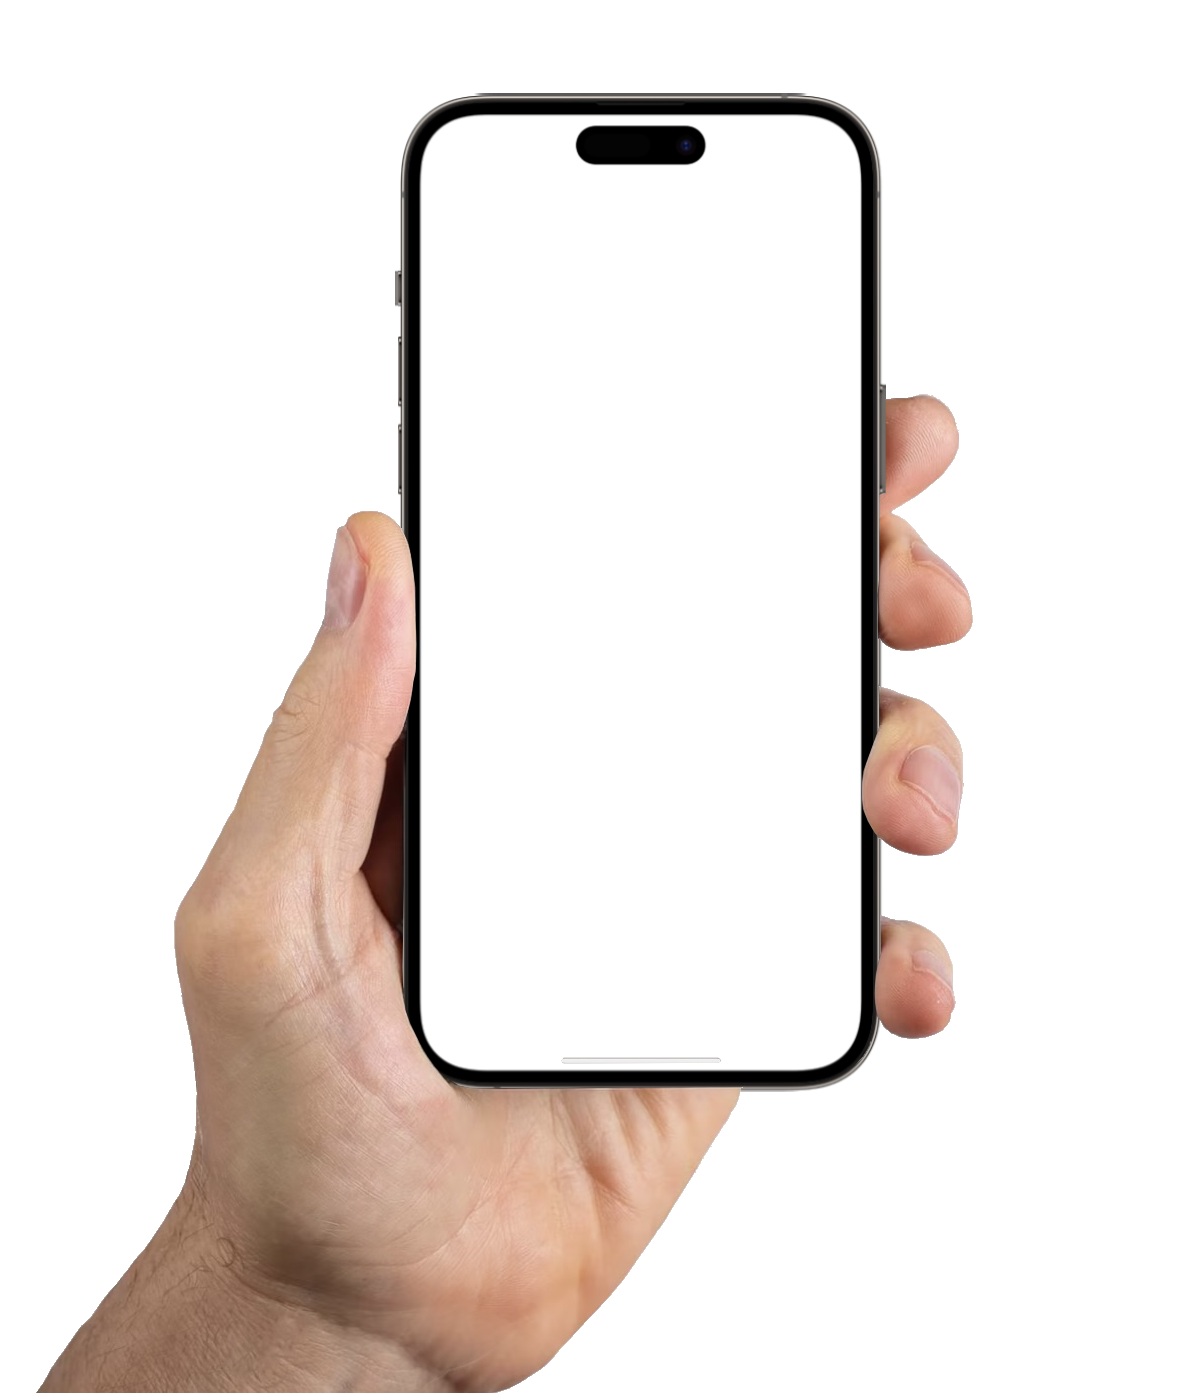
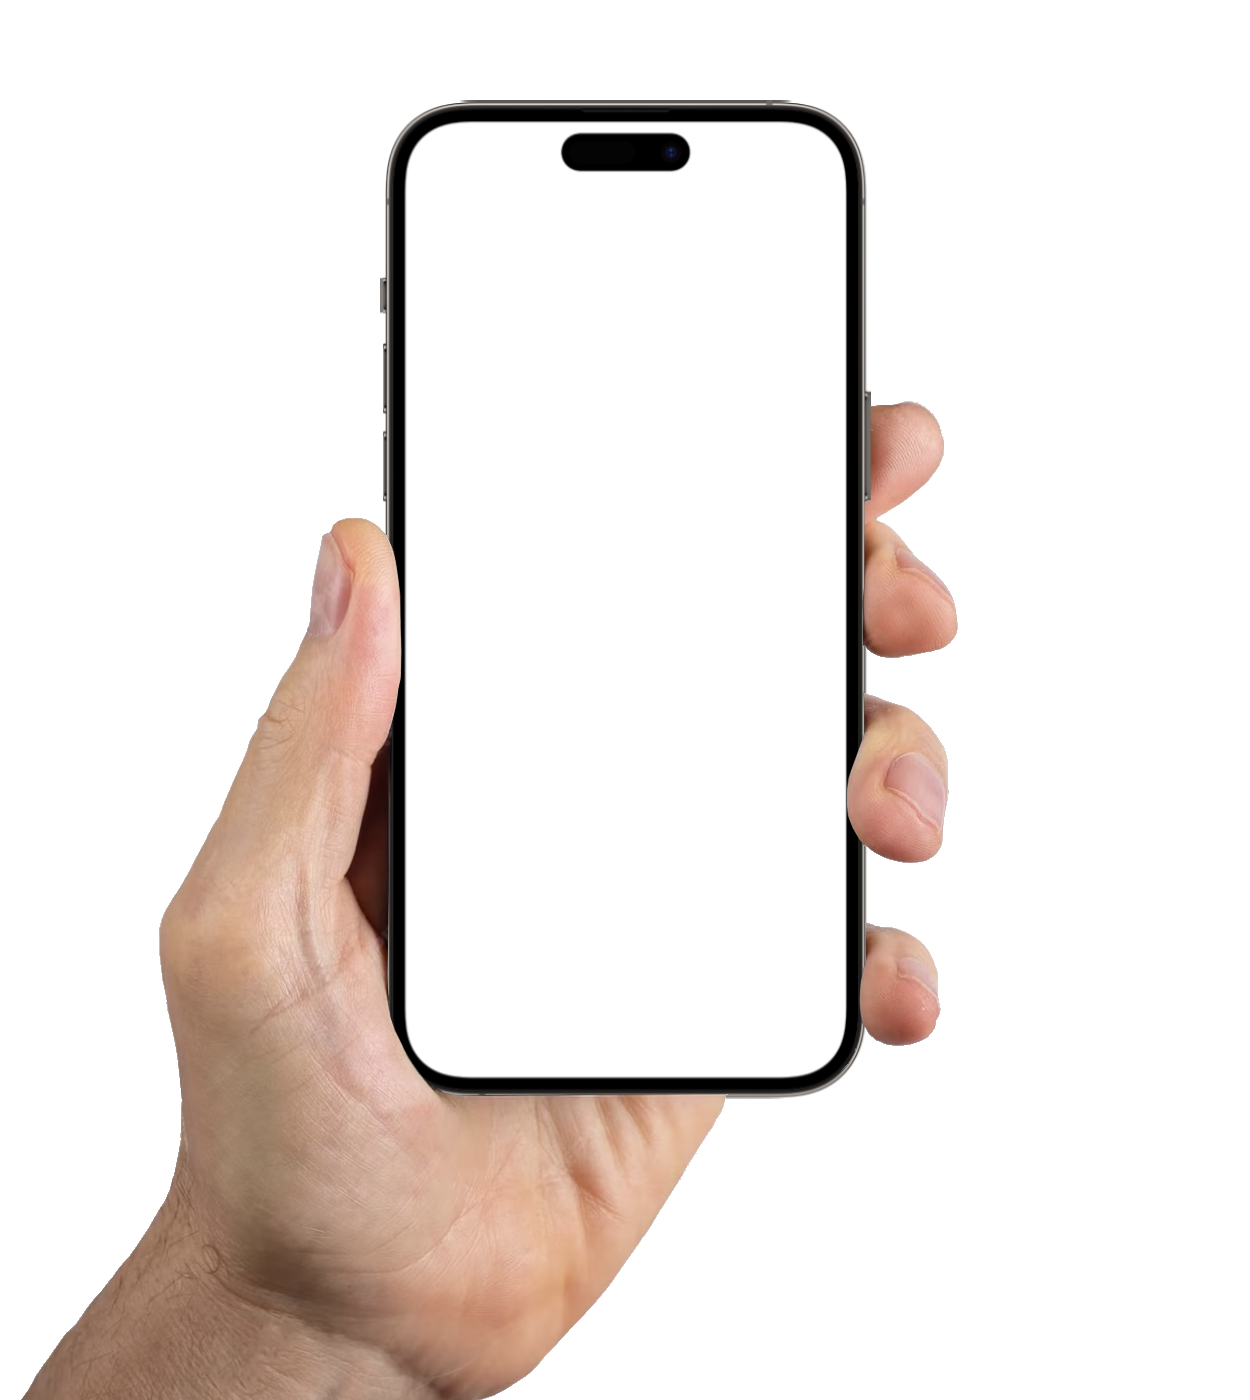
update d13

Changed region(s): [[0.0, 0.0614, 0.8325, 1.0], [0.0617, 0.9214, 0.0925, 0.9521]]

diff --git a/Desafios/d013/style.css b/Desafios/d013/style.css
@@ -7,45 +7,68 @@
 }
 
 html, body {
-    width: 98vw;
-    height: 98vh;
+    width: 100vw;
+    height: 100vh;
+    background-color: #594933;
 }
 
 body {
-    display: block;
-    background: #594933 url(imagens/fundo-madeira.jpg) top center no-repeat;
+    background: url(imagens/fundo-madeira.jpg) top center no-repeat;
     background-size: cover;
     background-attachment: fixed;
 }
 
 main {
-    height: 100vh;
     position: relative;
+    height: 100vh;
+}
+
+section#iphone {
+    position: absolute; 
+    top: 50%;
+    left: 50%;
+    transform: translate(-50%, -50%);
+
+    width: 100vw;
+    height: 100vh;
+    background: url(imagens/iPhone.png) top center no-repeat fixed;
+    background-size: 865px;
+}
+
+#notch {
+    background-size: 90px;
+    width: 90px;
+    display: block;
+    margin: auto;
+    transform: translate(-0%, -1850%);
+}
+
+#bar {
+    background-color: rgb(210, 210, 210);
+    width: 130px;
+    height: 5px;
+    margin: auto;
+    border-radius: 20px;
+    transform: translate(-0%, 14700%);
 }
 
 #home {
-    position: absolute;
-    top: 52%;
-    left: 48.4%;
-    transform: translate(-41%,-61.1%);
-    width: 305px;
-    height: 659px;
-    border-radius: 20px;
-    z-index: 1;
-    background-color: black;
+    position: relative;
+    top: 8.7%;
+    display: block;
+    border-radius: 41px;
+    margin: auto;
+    width: 307px;
+    height: 663px;
 }
 
 #redes {
-    display: block;
     background-color: rgba(169, 169, 169, 0.739);
     width: 320px;
     height: 80px;
     border-radius: 30px;
     margin: auto;
-    position: absolute;
-    top: 85%;
-    left: 51.5%;
-    transform: translate(-50%, -50%);
+    transform: translate(0%, 950%);   
 }
 
 #redes img {
@@ -68,17 +91,4 @@ main {
     margin: 0px 5px 0px 10px;
     box-shadow: 0px 0px 10px rgba(0, 0, 0, 0.68);
     transition: .1s;
-}
-
-#iphone {
-    background: url(imagens/iPhone.png) center center no-repeat fixed;
-    background-size: 825px;
-    width: 100vw;
-    height: 96.1vh;
-    position: absolute;
-    top: 52%;
-    left: 48.4%;
-    transform: translate(-50%, -50%);
-    margin: auto;
-    z-index: 2;
 }

diff --git a/Desafios/d013/index.html b/Desafios/d013/index.html
@@ -8,22 +8,24 @@
 </head>
 <body>
     <main>
-        <iframe id="home" name="app" src="home.html" frameborder="0" height="659" width="305">
-            Infelizmente o seu navegador não é compativel com a função deste website.
-        </iframe>
-
+        
         <section id="iphone">
+            <iframe id="home" name="app" src="home.html" frameborder="0">
+                Infelizmente o seu navegador não é compativel com a função deste website.
+            </iframe>
+            <img id="notch" src="imagens/notch.png" alt="notch">
 
-            <section id="redes">
-                <div id="redess">
+        </section>
 
-                </div>
-                <a href="apps/../home.html" target="app"> <img src="imagens/logo-home.jpg" alt="home"></a>
-                <a href="apps/instagram.html" target="app"> <img src="imagens/logo-instagram.png" alt="insta"></a>
-                <a href="apps/github.html" target="app"> <img src="imagens/logo-github.webp" alt="github"></a>
-                <a href="apps/linkedin.html" target="app"> <img src="imagens/logo-linkedin.png" alt="linkedin"></a>
+        <div id="bar">
+        </div>
 
-            </section>
+        <section id="redes">
+            </div>
+            <a href="apps/../home.html" target="app"> <img src="imagens/logo-home.jpg" alt="home"></a>
+            <a href="apps/instagram.html" target="app"> <img src="imagens/logo-instagram.png" alt="insta"></a>
+            <a href="apps/github.html" target="app"> <img src="imagens/logo-github.webp" alt="github"></a>
+            <a href="apps/linkedin.html" target="app"> <img src="imagens/logo-linkedin.png" alt="linkedin"></a>
         </section>
     </main>
 </body>

diff --git a/Desafios/d013/apps/instagram.html b/Desafios/d013/apps/instagram.html
@@ -9,19 +9,54 @@
         * {
             margin: 0px;
             padding: 0px;
+            font-family: Arial, Helvetica, sans-serif;
+            background-color: rgb(0, 0, 0);
+            font-weight: bolder;
         }
 
-        section#insta {
-            background: black url(../imagens/tela-instagram.png) top center no-repeat scroll;
-            background-size: cover;
-            width: 860px;
-            height: 2396px;
+        ::-webkit-scrollbar {
+            width: 0px;
+            height: 0px;
+        }
+
+        #insta {
+           width: 305px;
+           display: block;
+           margin: auto;
+        }
+        
+        a {
+            display: block;
+            text-align: center;
+            text-decoration: none;
+            font-size: 1em;
+            color: white;
+            padding: 30px;
+            background-color: rgba(141, 141, 141, 0.739);
+            border-radius: 37px;
+            width: 240px;
+            margin: auto;
+            transition: .1s;
+        }
+
+        a:hover {
+            margin: auto;
+            width: 245px;
+            border-radius: 40px;
+            text-decoration: underline;
+            transition: 1s;
+        }
+
+        a:active {
+            background-color: rgba(68, 68, 68, 0.739);
+            font-size: 15px;
+            width: 240px;
+            transition: .1s;
         }
      </style>
 </head>
 <body>
-    <section id="insta">
-
-    </section>
+    <img id="insta" src="../imagens/tela-instagram.png" alt="tela-insta">
+    <a href="">ABRA A PÁGINA AQUI</a>
 </body>
 </html>

diff --git a/Desafios/d013/home.html b/Desafios/d013/home.html
@@ -5,9 +5,17 @@
     <meta name="viewport" content="width=device-width, initial-scale=1.0">
     <title>Home</title>
     <style>
+
+        * {
+            margin: 0px;
+            padding: 0px;
+        }
+
         body {
-            background: darkcyan url(imagens/home.png) top center no-repeat fixed;
+            background: darkcyan url(imagens/home.png) top center no-repeat;
             background-size: cover;
+            width: 100vw;
+            height: 100vh;
         }
     </style>
 </head>
